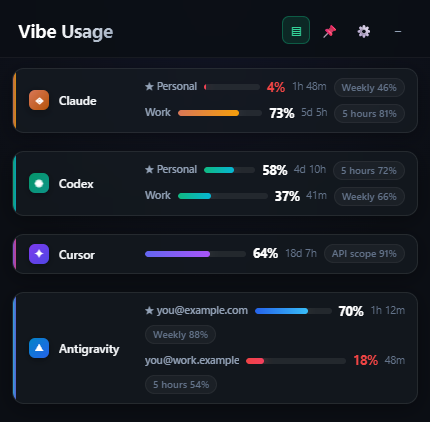
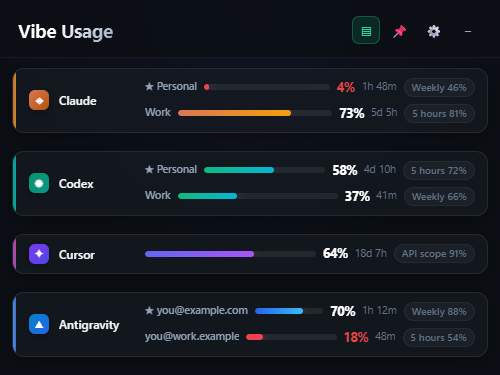
docs(media): widen the compact shot so each account fits one line
The compact view stacks accounts below 500 px and puts them side by side
above; at 500 px every row, the longest e-mail included, stays on one line.
The height is measured once the page has taken the new width.

diff --git a/scripts/media/main.ts b/scripts/media/main.ts
@@ -15,6 +15,8 @@ const OUT_DIR = path.join(ROOT, 'docs', 'media');
 const FFMPEG = process.env.FFMPEG ?? 'ffmpeg';
 const WIDTH = 430;
 const HEIGHT = 860;
+// The compact view's rows hold an account's name, bar, reset and next limit side by side.
+const COMPACT_WIDTH = 500;
 const SETTLE_MS = 600;
 // Pause between captures; capturing itself takes about as long again.
 const FRAME_GAP_MS = 40;
@@ -22,8 +24,8 @@ const GIF = { width: 480, fps: 12, colors: 128 };
 
 serveFixture({ snapshot: () => snapshot('en'), models: MODELS, smartLaunch: SMART_LAUNCH, sessions, projectDir: PROJECT_DIR });
 
-async function screenshot(win: BrowserWindow, name: string, height = HEIGHT): Promise<void> {
-  win.setContentSize(WIDTH, height);
+async function screenshot(win: BrowserWindow, name: string, height = HEIGHT, width = WIDTH): Promise<void> {
+  win.setContentSize(width, height);
   await settle(SETTLE_MS);
   fs.writeFileSync(path.join(OUT_DIR, `${name}.png`), (await capture(win)).toPNG());
   win.setContentSize(WIDTH, HEIGHT);
@@ -48,13 +50,18 @@ async function screenshots(win: BrowserWindow): Promise<void> {
   await toggleCompare(win);
   await screenshot(win, 'main', await runFor(win, 'document.documentElement.scrollHeight', isNumber));
   await toggleCompare(win);
-  // One line per account; the window is as tall as its rows.
+  // One line per account, wide enough for the longest account name; the window is as tall as
+  // its rows at that width.
   await press(win, '#compact-button');
-  await screenshot(
-    win,
-    'compact',
-    await runFor(win, "Math.ceil(document.querySelector('#providers').getBoundingClientRect().bottom) + 12", isNumber)
-  );
+  win.setContentSize(COMPACT_WIDTH, HEIGHT);
+  // The page learns its new width a moment later: measured before, the rows are still wrapped.
+  const rowsBottom = `new Promise(resolve => {
+    const measure = () => innerWidth === ${COMPACT_WIDTH}
+      ? resolve(Math.ceil(document.querySelector('#providers').getBoundingClientRect().bottom) + 12)
+      : setTimeout(measure, 20);
+    measure();
+  })`;
+  await screenshot(win, 'compact', await runFor(win, rowsBottom, isNumber), COMPACT_WIDTH);
   await press(win, '#compact-button');
   await press(win, '#smart-launch-btn');
   await screenshot(win, 'smart-launch');
